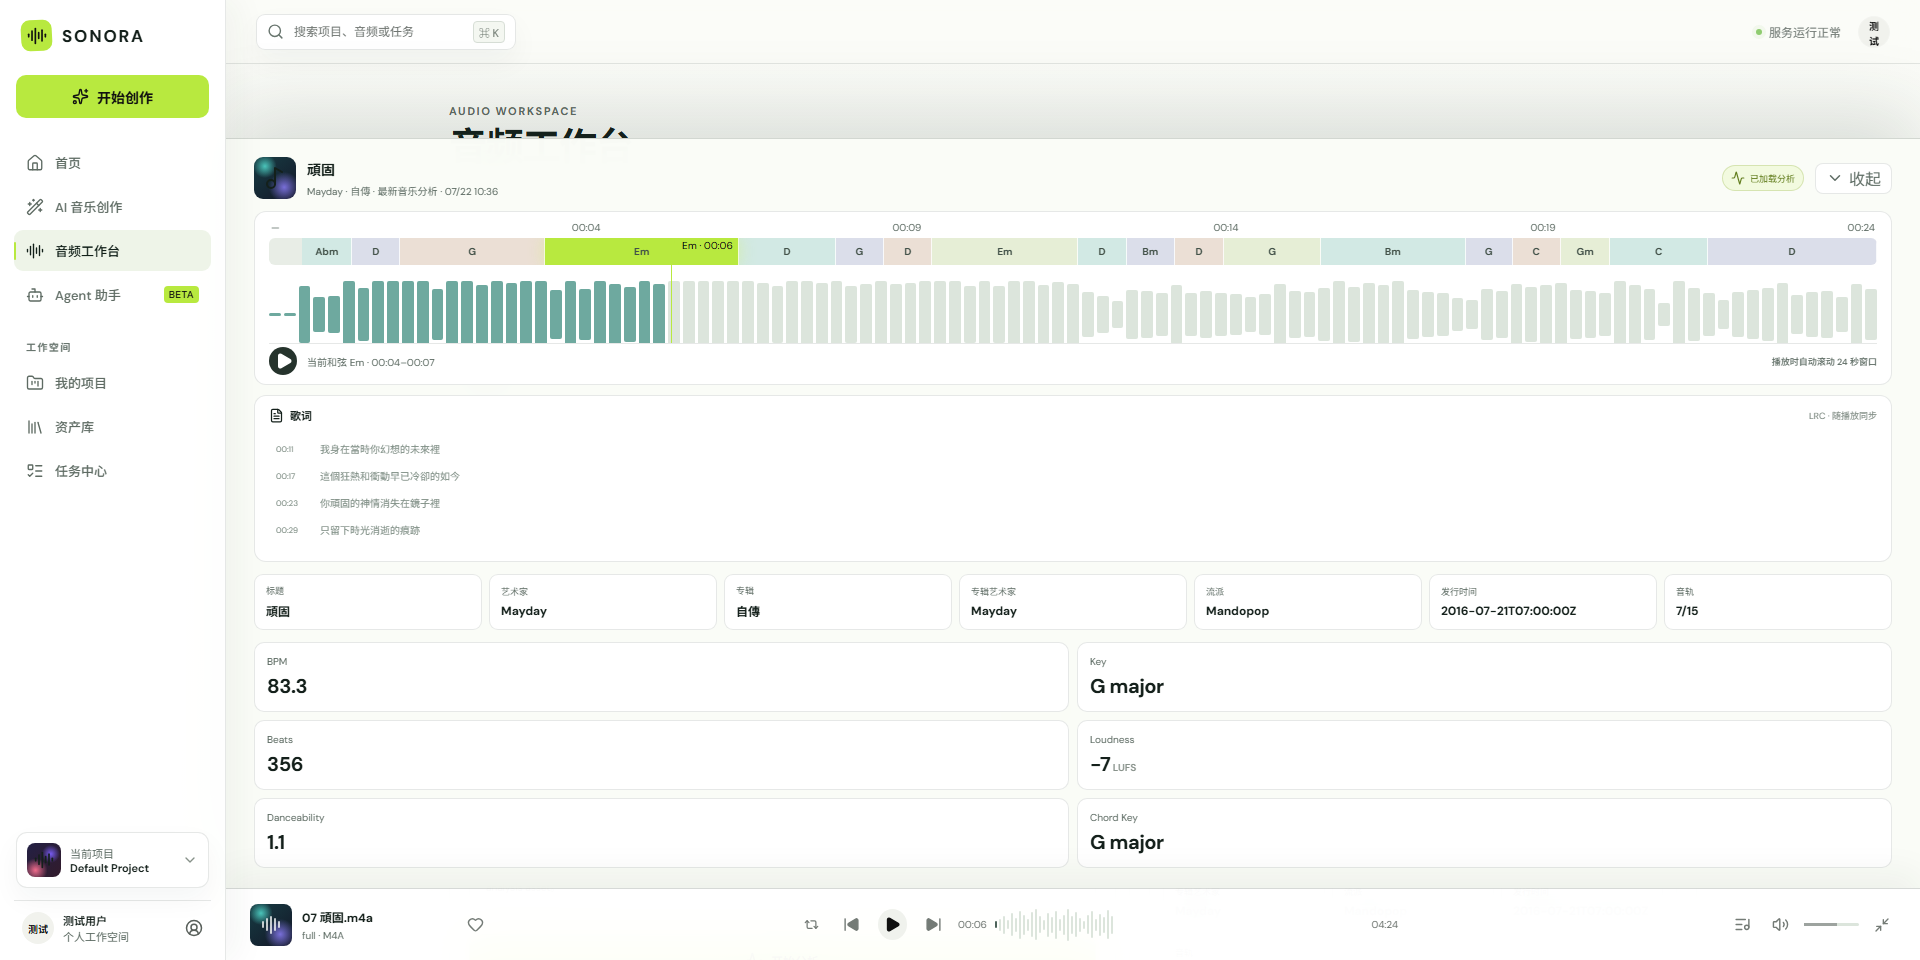
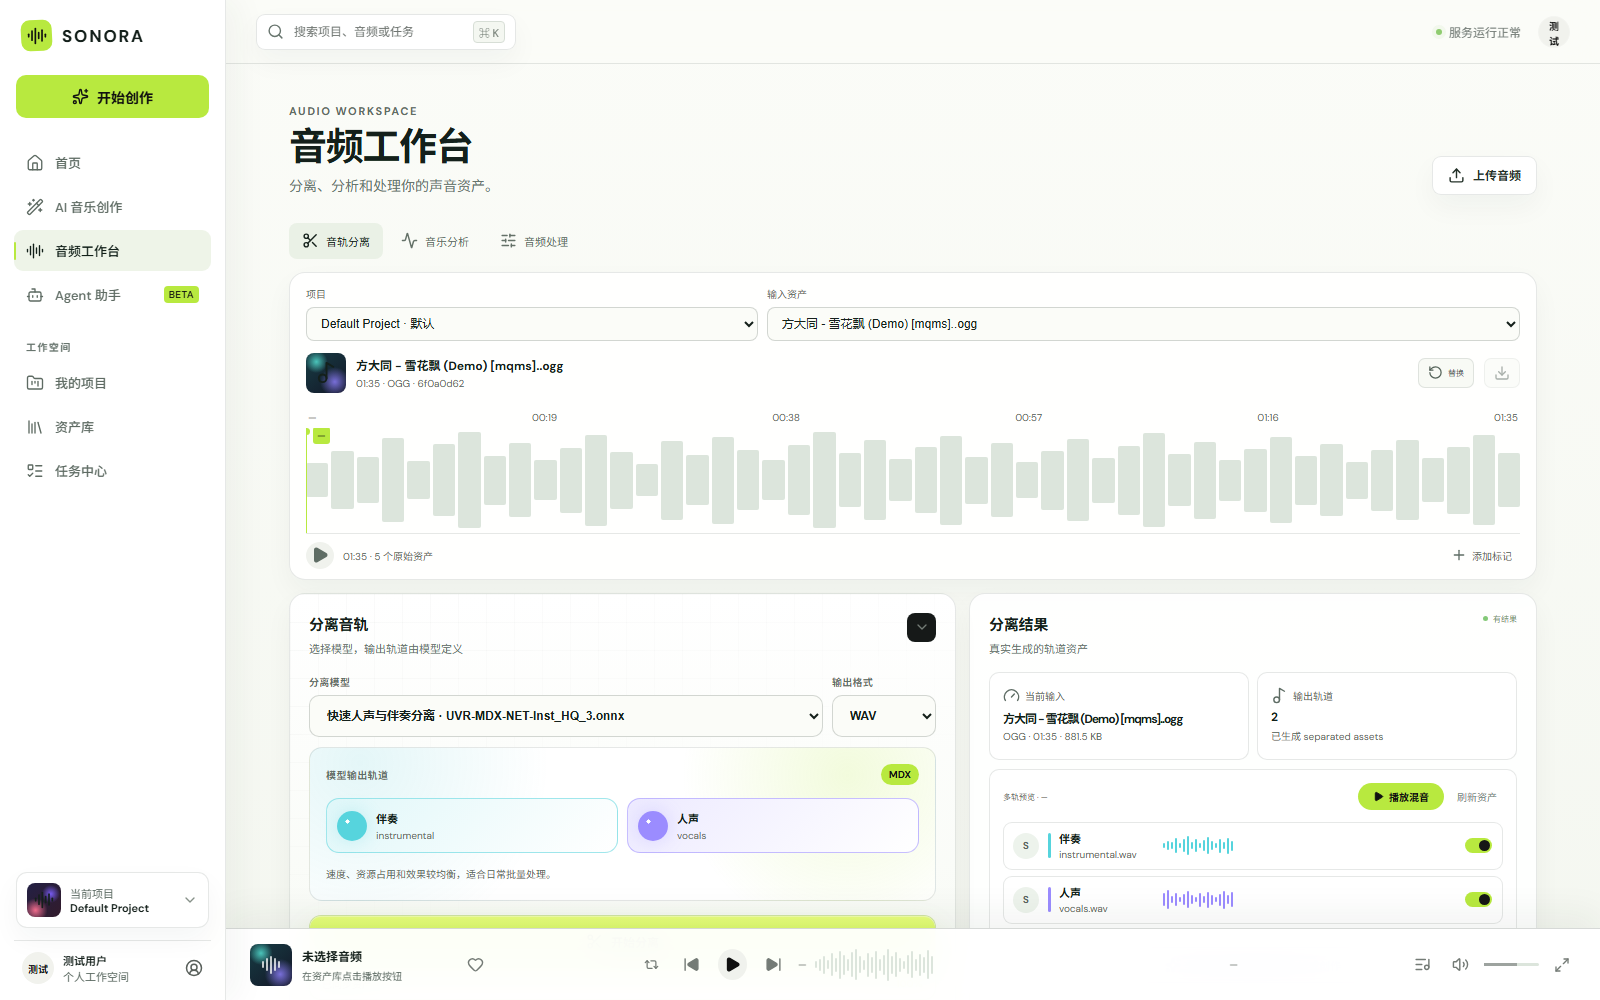
文档：区分工作台与分析播放截图

diff --git a/README.md b/README.md
@@ -50,6 +50,12 @@ English documentation: [README_EN.md](README_EN.md)
 
 ![资产库](docs/images/asset-library.png)
 
+从资产库或工作台播放一个已有分析结果的音频后，可以展开底部播放器：界面会自动读取
+该音频最新的分析资产和关联歌词，在播放过程中同步展示 24 秒波形窗口、当前和弦、
+LRC 歌词、音乐标签以及核心分析指标。
+
+![播放器展开详情：波形、和弦、歌词与分析指标](docs/images/playback-analysis.png)
+
 ### 5. 任务中心
 
 - 从 `audio-assets.task` 加载上传、分离、分析和生成任务。

diff --git a/README_EN.md b/README_EN.md
@@ -52,6 +52,13 @@ Chinese documentation: [README.md](README.md)
 
 ![Asset library](docs/images/asset-library.png)
 
+When an asset with an analysis result is played from the library or workspace,
+the bottom player can be expanded. It loads the latest analysis asset and linked
+lyrics, then synchronizes a 24-second waveform window, the current chord, LRC
+lyrics, music tags, and core analysis metrics with playback.
+
+![Expanded playback with waveform, chords, lyrics, and analysis metrics](docs/images/playback-analysis.png)
+
 ### Task center
 
 - Upload, separation, analysis, and generation tasks loaded from
